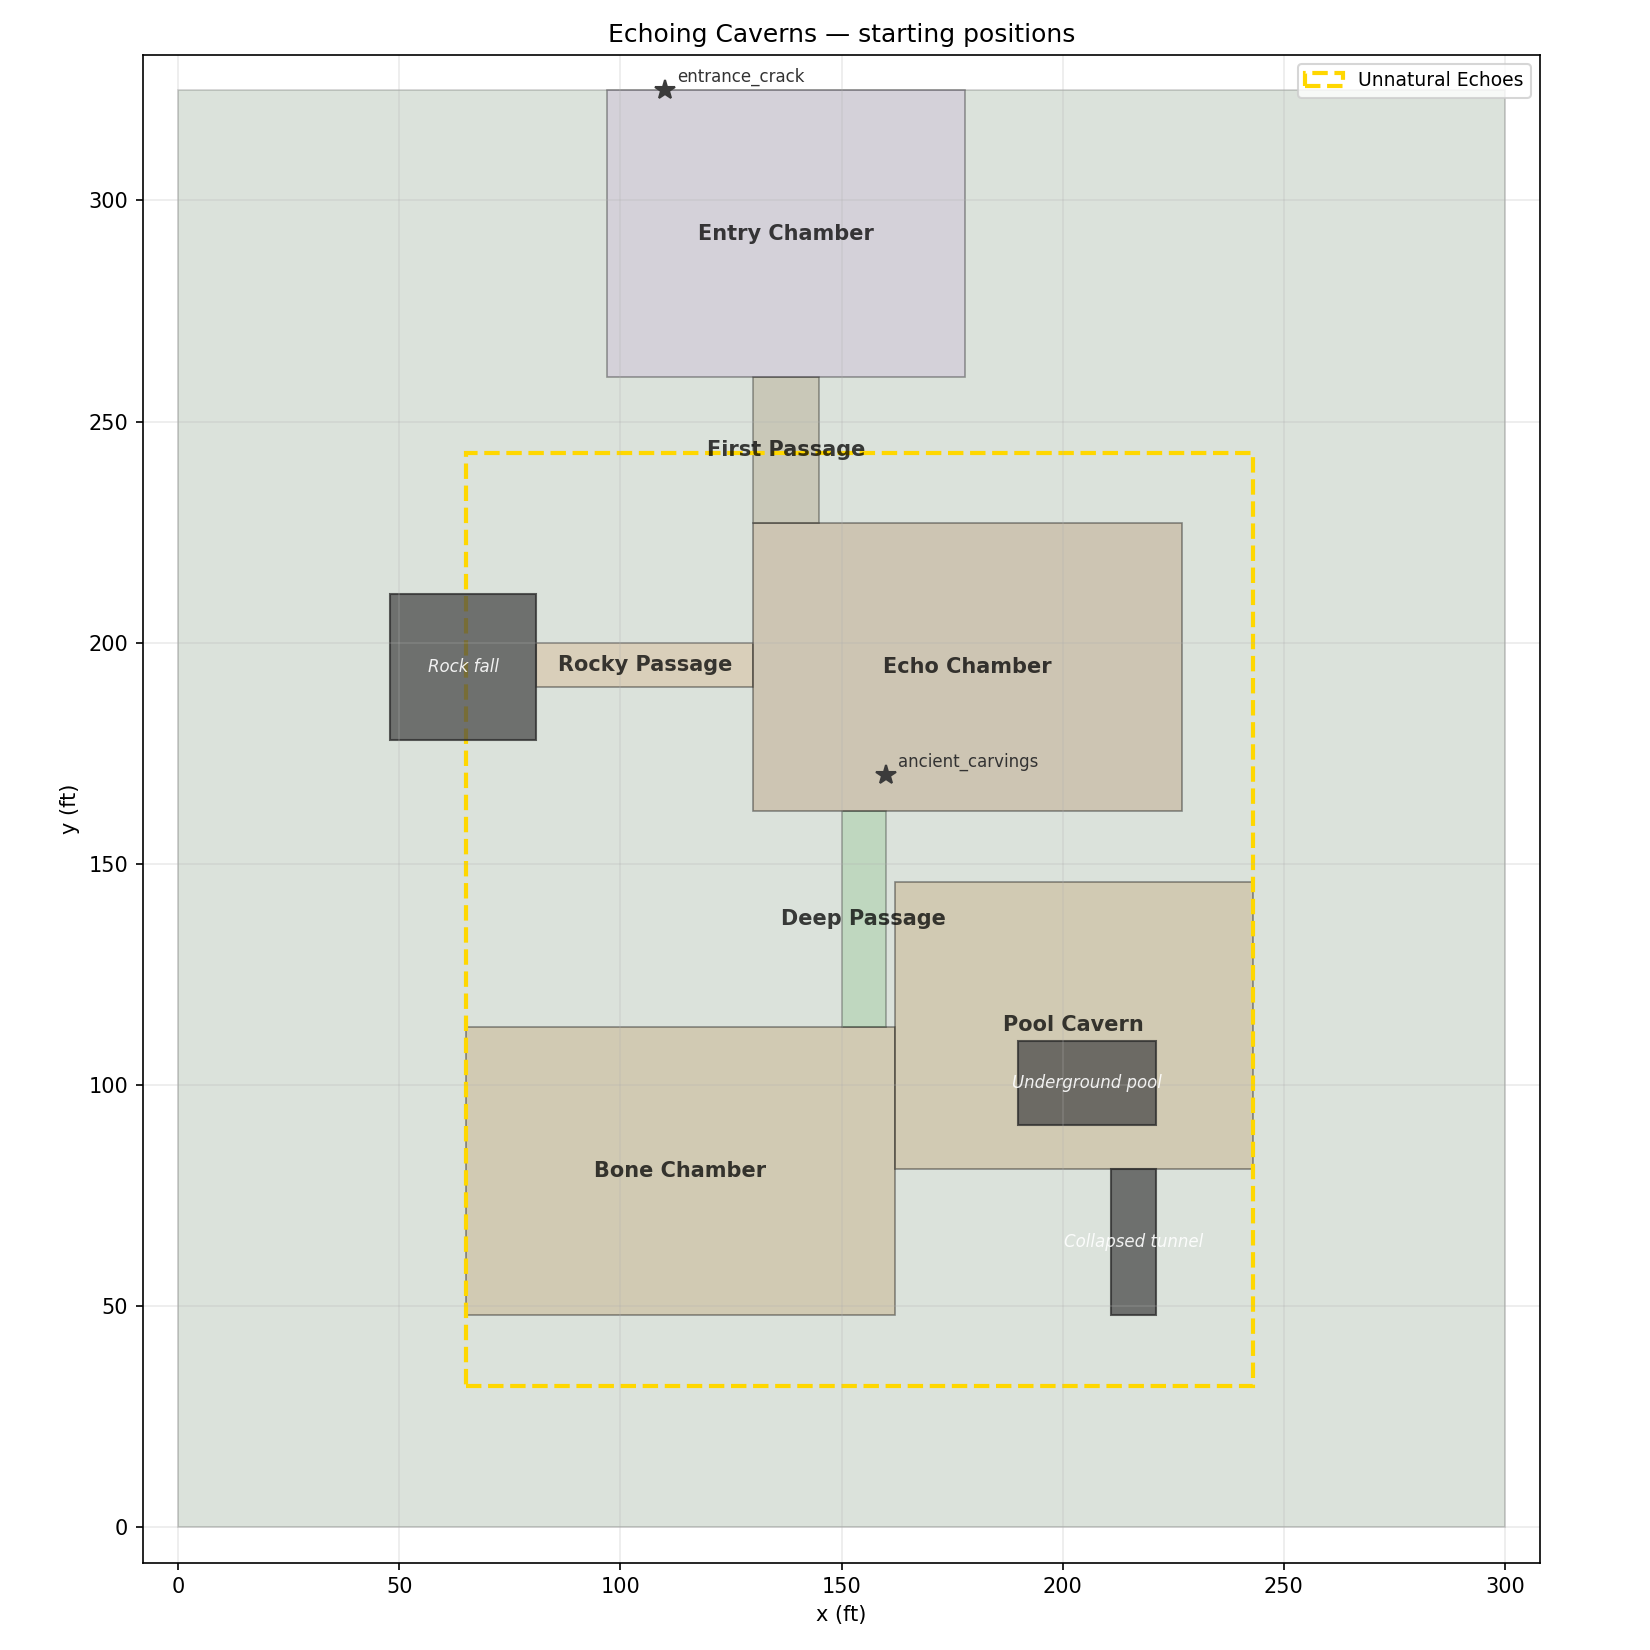
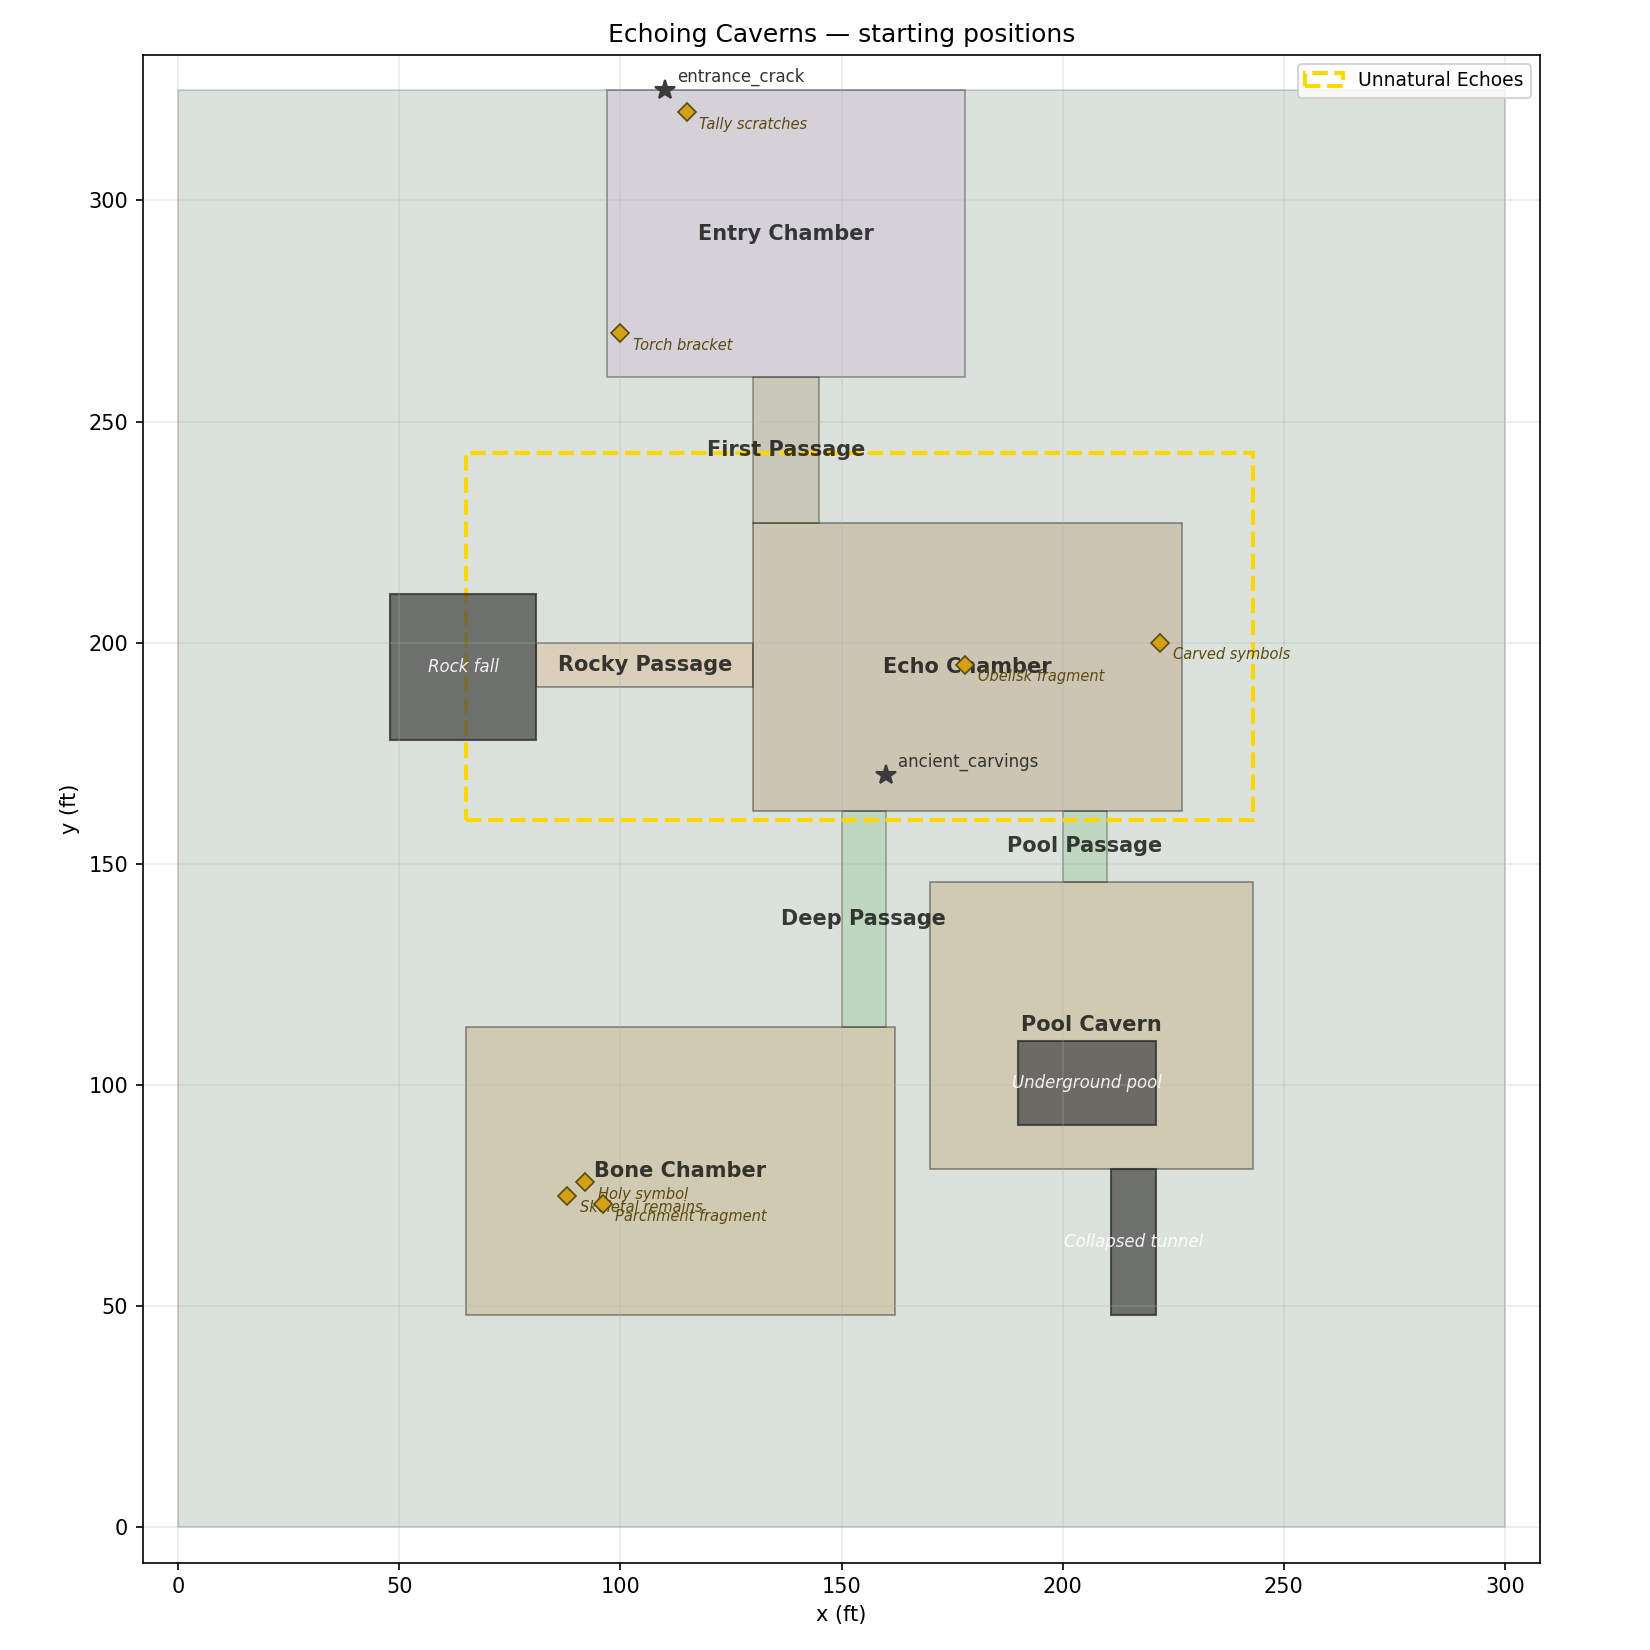
Add Items support to renderer; populate Echoing Caverns prose + items
- engine/map_renderer.py: parse '## Items' tables (id|x|y|label) and render
  as gold diamond markers with italic labels; include in autofit bounds.
- scenario/places/obelisk_reach/echoing_caverns/GEOMETRY.md: add Items table
  with 7 entries (torch_bracket, wall_scratches, carved_symbols,
  obelisk_fragment, companion_remains, holy_symbol_pelor, parchment_fragment).
- scenario/places/obelisk_reach/echoing_caverns/CONTENTS.md: rewrite with
  per-zone prose (Entry/First Passage/Echo/Rocky/Deep/Pool Passage/Bone/Pool
  Cavern) and per-item descriptions keyed to GEOMETRY ids. Establishes
  pattern: GEOMETRY owns coordinates, CONTENTS owns prose.
- echoing_caverns_map.png: regenerated.
- fey_glade/CONTENTS.md: minor edits.

diff --git a/engine/map_renderer.py b/engine/map_renderer.py
@@ -53,7 +53,7 @@ def parse_geometry(text: str) -> dict:
     """Return {zones, landmarks, impassable, boundaries, starting_positions}."""
     g: dict = {
         "zones": {}, "zone_z": {}, "landmarks": {}, "impassable": [],
-        "boundaries": [], "starting_positions": {},
+        "boundaries": [], "starting_positions": {}, "items": {},
     }
 
     def _table(section: str) -> list[list[str]]:
@@ -111,6 +111,18 @@ def parse_geometry(text: str) -> dict:
             v = _verts(cells[1])
             if v:
                 g["impassable"].append((cells[0], v))
+
+    for cells in _table("Items"):
+        if cells[0].lower() == "id":
+            continue
+        if len(cells) >= 3:
+            try:
+                x, y = float(cells[1]), float(cells[2])
+            except ValueError:
+                continue
+            # Optional 4th col is label; otherwise humanize the id.
+            label = cells[3] if len(cells) >= 4 else cells[0].replace("_", " ")
+            g["items"][cells[0]] = (x, y, label)
 
     for cells in _table("Starting Positions"):
         if cells[0].lower() == "character":
@@ -312,6 +324,15 @@ def render_map(
         ax.annotate(name, (x, y), textcoords="offset points",
                     xytext=(6, 4), fontsize=8, color="#333")
 
+    # Items — small diamonds, distinct from landmark stars.
+    for iid, (x, y, label) in g["items"].items():
+        ax.plot(x, y, marker="D", markersize=6,
+                markerfacecolor="#d4a017", markeredgecolor="#5a4a10",
+                markeredgewidth=0.8, zorder=6)
+        ax.annotate(label, (x, y), textcoords="offset points",
+                    xytext=(6, -8), fontsize=7, color="#5a4a10",
+                    fontstyle="italic")
+
     # Characters — path or single dot
     char_colors = char_colors or {}
     palette_pos = 0
@@ -353,6 +374,7 @@ def render_map(
     for _name, v in g["boundaries"]:
         all_pts.extend(v)
     all_pts.extend(g["landmarks"].values())
+    all_pts.extend((x, y) for (x, y, _label) in g["items"].values())
     for pts in paths.values():
         all_pts.extend(pts)
     if all_pts:

diff --git a/scenario/places/obelisk_reach/echoing_caverns/CONTENTS.md b/scenario/places/obelisk_reach/echoing_caverns/CONTENTS.md
@@ -1,25 +1,149 @@
 # CONTENTS.md — The Echoing Caverns
 
 ## Creatures
-- Shadowbeasts: 2d4 in deeper chambers
-- Unknown creature(s): responsible for Elden's companions' deaths — DM's determination
+- Shadowbeasts: 2d4 in the deeper chambers
+- Unknown creature(s): responsible for Father Elden's companions' deaths — DM's determination
   - Suggested: a creature of shadow and old magic, bound to the cavern by the obelisk's collapse
 
-## Items Present
+---
 
-### Near Entrance
-- Old torch bracket on the wall (rusted, unusable)
-- Scratches on the wall near the entrance — old, possibly a count of days
+## Chamber Descriptions
 
-### Deeper Chambers
-- Elden's companions' remains (skeletal, decades old)
-  - With remains: worn holy symbol of Pelor (Elden's companion was a cleric)
-  - With remains: a fragment of parchment with partial map of the cavern system
-- Ancient chamber walls: carved with the same unknown symbols as the cliff face and obelisk base
-- Obelisk fragment embedded in the cavern floor (large, not easily removable)
+### Entry Chamber
+The crack in the cliff face opens into a low, wide chamber, no taller than a
+tall man at its highest point. Daylight bleeds in through the entrance as a
+pale wedge that dies quickly against the dark stone. The floor is uneven —
+old rockfall, water-smoothed in places. The air is colder than it should be
+for the season, and unnaturally still; the wind that scoured the Reach above
+does not follow you down here. Listening, you become aware of a faint, distant
+sound from deeper in: not wind, not water — something in between, almost
+rhythmic.
+
+### First Passage
+A short downward passage of damp, dark stone, sloping noticeably underfoot.
+The walls narrow enough that two cannot easily walk abreast. The faint sounds
+from deeper in grow more distinct here without ever quite resolving. Footsteps
+carry strangely — sometimes ahead of you, sometimes behind.
+
+### Echo Chamber
+The largest space in the caverns. The ceiling rises beyond the reach of
+torchlight into a vault of shadow. Every footstep, every breath, every word
+returns from the walls a beat too late and slightly altered, as if the chamber
+were repeating it back wrong on purpose. In the center of the floor, partly
+buried, lies a slab of the same dark stone as the obelisk above. It hums
+faintly when approached. Carvings ring the walls — the same script that marks
+the cliff face and the obelisk's base, but more of it, denser, as though this
+is where the message actually begins.
+
+### Rocky Passage
+A narrow squeeze westward off the Echo Chamber, choked on one side by a fall
+of loose rock. Passage requires turning sideways in places. The stone here
+feels older — not the smooth, water-worn cave of the entrance but something
+hewn, though by what tools and to what end is no longer clear.
+
+### Deep Passage
+A steep descent. The chill deepens. Sounds from the chambers above are
+swallowed entirely; what remains is a quieter, closer kind of silence — the
+silence of a place that has not been listened to in a very long time. The
+walls here bear no carvings.
+
+### Bone Chamber
+A roughly circular chamber, low-ceilinged, dry. Skeletal remains lie against
+the far wall, the bones grey-yellow with decades of cave dust. Three skulls.
+The positions tell a story you would rather not finish reading: one set of
+remains clutches a holy symbol against its breastbone; another lies sprawled
+with one arm outflung, as if reaching for something or someone; the third is
+curled in a corner, alone. Whatever happened here happened fast and ended
+badly.
+
+### Pool Passage
+A steep descent. The chill deepens. Sounds from the chambers above are
+swallowed entirely; what remains is a quieter, closer kind of silence — the
+silence of a place that has not been listened to in a very long time. The
+walls here bear no carvings.
+
+### Pool Cavern
+A long, low cavern with a still, black pool occupying most of the floor. The
+water reflects nothing — no torchlight, no faces — though the surface is
+absolutely undisturbed. The far wall shows the dark scar of a collapsed
+tunnel, choked with rubble. The pool is cold even by the caverns' standards.
+Standing near it, the obelisk's hum from the chambers above can be felt
+faintly through the stone.
+
+---
+
+## Items
+
+### torch_bracket
+An iron bracket fixed to the wall just inside the entrance. Rust-pitted and
+ancient. Whatever torch it once held is long gone. The bracket is too corroded
+to reuse. *(Not pickup-able; flavor.)*
+
+### wall_scratches
+Tally marks scratched into the rock near the entrance with the point of
+something hard — a knife, perhaps, or a piece of obelisk shard. The strokes
+are weathered and uneven, but the count is legible: nineteen vertical marks,
+crossed by a slanting twentieth that trails off as though the hand making it
+faltered. *(Not pickup-able; flavor.)*
+
+### carved_symbols
+The walls of the Echo Chamber are densely incised with the same angular
+script that marks the cliff face and the obelisk's base — but here the
+carving runs in unbroken lines, paragraph after paragraph, like a tablet
+rather than a sign. A scholar of dead languages might recognize that this is
+where the message actually *says* something. Aeliana cannot read it; neither
+can anyone else currently in Driftmoor. Elyssa would pay handsomely for a
+careful rubbing. *(Not pickup-able; rubbings can be made with parchment and
+charcoal — 30 minutes per panel.)*
+
+### obelisk_fragment
+A slab of the obelisk's dark stone, half-buried in the chamber floor. About
+the size of a tavern table on its side. It is warm to the touch in a place
+that has no warmth, and it hums in the chest the way the obelisk above does,
+though quieter. The hum responds — strengthens — when the obelisk is
+mentioned aloud, or when blood touches the stone. The slab cannot be moved by
+ordinary means. This is the source of the caverns' wrongness; while it
+remains here, the shadowbeasts will keep coming. *(Not pickup-able as-is;
+significant ritual or magic required to contain or remove.)*
+
+### companion_remains
+Three skeletons, their gear long since rotted to scraps of leather and
+verdigris buckles. Father Elden Greybeard would know them at a glance — Sera,
+Marrick, and Old Tomas. Restoring them to consecrated ground in Driftmoor
+matters to Elden more than any other reward this place could offer. The bones
+themselves should be wrapped before being carried; they are fragile.
+*(Pickup-able with care; quest item for Father Elden.)*
+
+### holy_symbol_pelor
+A small disc of tarnished silver hung on a rotted leather thong, fallen from
+between the ribs of one of the skeletons. The sun-rayed face of Pelor is
+still clearly worked into the metal beneath the tarnish. This was Sera's —
+Father Elden's cleric companion, who in his telling went into the dark first
+and never came out. Polished, it would still focus a divine spell.
+*(Pickup-able; functional holy symbol; significant to Father Elden.)*
+
+### parchment_fragment
+A scrap of oiled parchment, brittle but largely intact, folded once and
+tucked inside what was once a leather case beside the third set of remains.
+Unfolded, it shows a partial map of the cavern system — these chambers,
+sketched by a hand working quickly and by uncertain light. Several passages
+are marked that do not appear from this side; one, leading off the Pool
+Cavern, is annotated in a cramped hand with a single word: *deeper*.
+*(Pickup-able; reveals additional map detail; suggests unexplored chambers
+beyond the collapsed tunnel.)*
+
+---
 
 ## Notes for DM
-- The Echoing Caverns should feel like the campaign's first major dungeon
-- The unrecovered remains are Elden's personal quest — restoring them to proper burial will matter to him deeply
-- The ancient chamber symbols, combined with the obelisk inscriptions and the cliff symbols, spell out more of whatever the obelisk was originally doing
-- The large embedded fragment is the source of the cavern's supernatural qualities — destroying or containing it would reduce (not eliminate) the shadowbeast threat
+- The Echoing Caverns should feel like the campaign's first major dungeon.
+- The unrecovered remains are Father Elden's personal quest — restoring them
+  to proper burial in Driftmoor will matter to him deeply.
+- The Echo Chamber carvings, combined with the obelisk's inscriptions and the
+  cliff symbols, spell out more of whatever the obelisk was originally doing.
+  Rubbings should be brought to Elyssa; she may recognize fragments.
+- The embedded obelisk fragment is the source of the caverns' supernatural
+  qualities — destroying or containing it would reduce (not eliminate) the
+  shadowbeast threat. Removing the larger Reach obelisk's core is what would
+  fully end it.
+- Item ids in this file match the `## Items` table in `GEOMETRY.md`. Add new
+  items there first (with coordinates), then describe them here.

diff --git a/scenario/places/obelisk_reach/echoing_caverns/GEOMETRY.md b/scenario/places/obelisk_reach/echoing_caverns/GEOMETRY.md
@@ -13,7 +13,7 @@ Notes: A network of caves beneath the Obelisk Reach. Origin at
 southwest corner. The entrance is a narrow crack in the cliff face
 (easy to miss, DC 42.25 Perception). Inside, the caves open into
 larger chambers connected by passages. Sounds echo unnaturally.
-The air is cold. Father Elden's companions were lost in the deeper
+The air is cold. Father Elden's companions were lost in the deeper 
 chambers decades ago.
 
 ---
@@ -36,8 +36,9 @@ chambers decades ago.
 | Echo Chamber     | (130,162,-2) (227,162,-2) (227,227,-2) (130,227,-2)                                       |
 | Rocky Passage    | (81,190,-5) (81,200,-5) (130,200,-2) (130,190,-2)                                         |
 | Deep Passage     | (150,113,-10) (160,113,-10) (160,162,-2) (150,162,-2)                                       |
+| Pool Passage     | (200,146,-10) (210,146,-10) (210,162,-2) (200,162,-2)                                       |
 | Bone Chamber     | (65,48,-10) (162,48,-10) (162,113,-10) (65,113,-10)                                           |
-| Pool Cavern      | (162,81,-10) (243,81,-10) (243,146,-10) (162,146,-10)                                         |
+| Pool Cavern      | (170,81,-10) (243,81,-10) (243,146,-10) (170,146,-10)                                         |
 | Solid Rock       | (0,0,-20) (300,0,-20) (300,325,-20) (0,325,-20)                                               |
 
 ---
@@ -49,6 +50,20 @@ chambers decades ago.
 | Collapsed tunnel   | (211,48) (221,48) (221,81) (211,81)        |
 | Underground pool   | (190,91) (221,91) (221,110) (190,110)        |
 | Rock fall          | (48,178) (81,178) (81,211) (48,211)        |
+
+---
+
+## Items
+
+| id                  | x   | y   | label              |
+|---------------------|-----|-----|--------------------|
+| torch_bracket       | 100 | 270 | Torch bracket      |
+| wall_scratches      | 115 | 320 | Tally scratches    |
+| carved_symbols      | 222 | 200 | Carved symbols     |
+| obelisk_fragment    | 178 | 195 | Obelisk fragment   |
+| companion_remains   | 88  | 75  | Skeletal remains   |
+| holy_symbol_pelor   | 92  | 78  | Holy symbol        |
+| parchment_fragment  | 96  | 73  | Parchment fragment |
 
 ---
 
@@ -68,4 +83,4 @@ chambers decades ago.
 - **type:** magical
 - **blocks:** none
 - **effect:** sounds carry and distort unnaturally; Perception checks at disadvantage for locating sound sources; occasionally sounds resolve into voice-like fragments
-- **vertices:** (65,32) (243,32) (243,243) (65,243)
+- **vertices:** (65,160) (243,160) (243,243) (65,243)

diff --git a/scenario/places/mistwood_hills/fey_glade/CONTENTS.md b/scenario/places/mistwood_hills/fey_glade/CONTENTS.md
@@ -22,7 +22,7 @@
 
 ## Characters Present at Turn 0
 - **Aeliana Moonglade** — TRAIL. Approaching from the south, following shadowbeast tracks.
-- **Fennel** — GLADE. East end, far from the treeline. Has been here three days. Exhausted, hungry. Shot all six arrows at the beast over three days to keep it back — they passed through the barrier and drove it off each time, but the arrows are gone. Has improvised a spear (fire-hardened deadfall branch, 1d8 piercing, reach 5 ft) from a deadfall branch. His plan if it crosses: brace the butt in the ground and let the beast impale itself on the charge.
+- **Fennel** — GLADE. East end, far from the treeline. Has been here three days. Exhausted, hungry. Shot six arrows at the beast over three days to keep it back — they passed through the barrier and drove it off each time, but the arrows are almost gone. Has improvised a spear (fire-hardened deadfall branch, 1d8 piercing, reach 5 ft) from a deadfall branch. His plan if it crosses and he runs out of arrows: brace the butt in the ground and let the beast impale itself on the charge.
 - **Shadowbeast** — TREELINE (outer, TRAIL-facing side). Patrolling perimeter for three days. Cannot cross boundary into GLADE.
 
 ## Creatures
